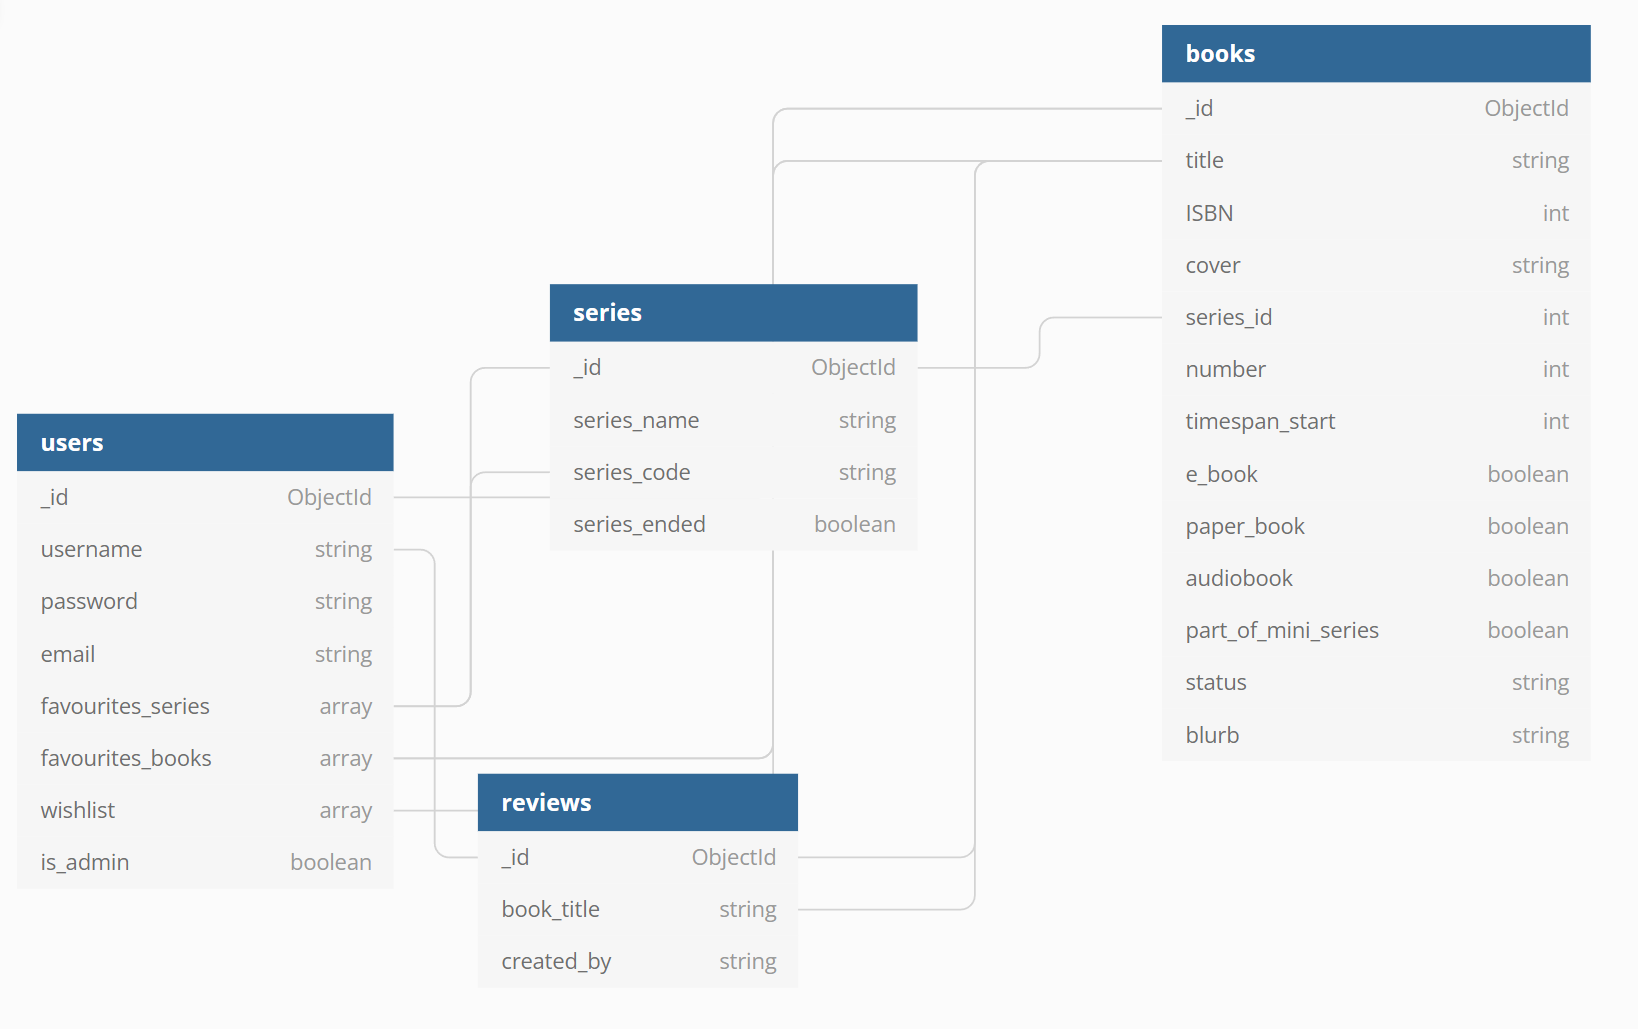
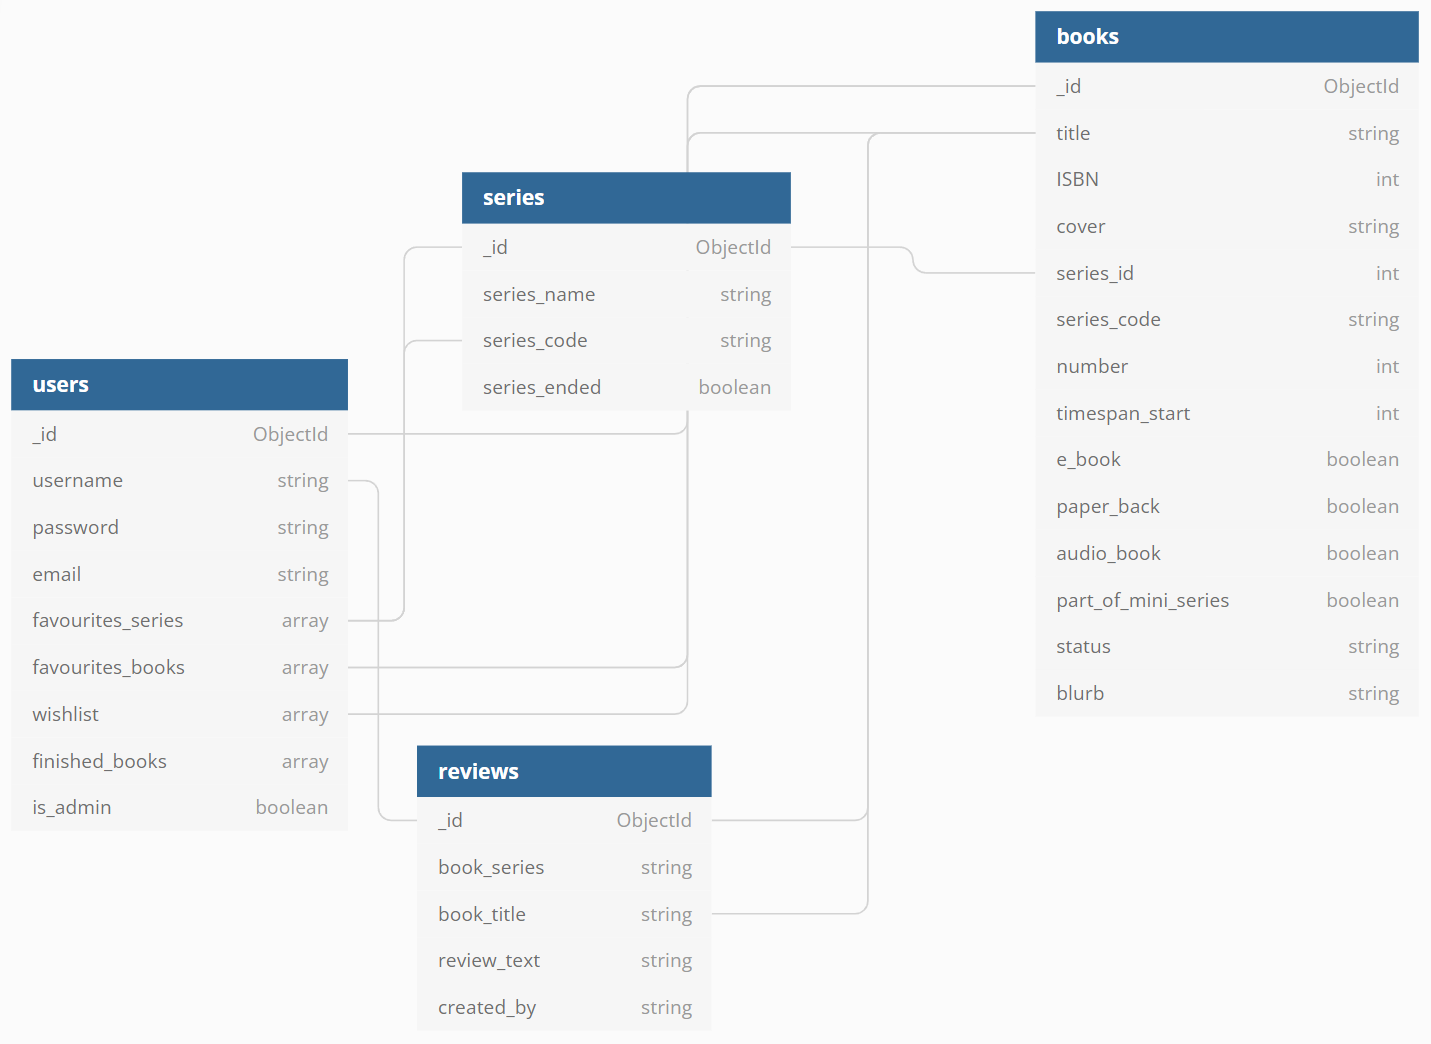
docs:  update the following sections: imagery, database schema, features and deployment

diff --git a/README.md b/README.md
@@ -78,7 +78,7 @@ All icons are from [Font Awesome](https://fontawesome.com). Please refer to the 
 
 #### **Imagery**
 
-All images were taken from [Unsplash](https://unsplash.com). Credit for the individual pictures is given below in the media section.
+All background images were taken from [Unsplash](https://unsplash.com). Credit for the individual pictures is given below in the media section. All book covers were obtained from [Memory Alpha](https://memory-alpha.fandom.com/wiki/Portal:Main). For information about the license, please refer to the media section. For sources for each book cover, please refer to the separate [SOURCES.md](SOURCES.md).
 
 ### **Wireframes**
 
@@ -94,7 +94,7 @@ All wireframes for this project can be found in the [wireframes sub-directory](h
 ![Database Schema](images/readme/db-scheme.png)
 The project uses 4 collections which are stored in MongoDB.
 
--   The **users** collection stores the username, password and email to enable the user to create an account with a profile page and - as a future feature - to be notified when new books are added to a series from his favourites list. Books that have been added to either the favourites list or the wish list, and series that have been added to the favourites list, and all reviews written by the user are also stored. Furthermore, information about whether a user is also an admin are stored.
+-   The **users** collection stores the username, password and email to enable the user to create an account with a profile page and - as a future feature - to be notified when new books are added to a series from his favourites list. Books that have been added to either the favourites list or the wish list and series that have been added to the favourites list, books that have been marked as finished and all reviews by the user are also stored. Furthermore, information about whether a user is also an admin are stored.
 
 -   The **series** collection stores the name and the code (e.g. 'DSC' for 'Discovery') for each series. It also stores information about whether the series has ended.
 
@@ -120,6 +120,7 @@ The available navigation menu items depend on whether a user is logged in and fo
 | Nav Link           | Not logged in | Logged in as user | Logged in as admin |
 | :----------------- | :------------ | :---------------- | :----------------- |
 | Logo(back to home) | &#9989;       | &#9989;           | &#9989;            |
+| All books          | &#9989;       | &#9989;           | &#9989;            |
 | Series             | &#9989;       | &#9989;           | &#9989;            |
 | Reviews            | &#9989;       | &#9989;           | &#9989;            |
 | Account            | &#9989;       | &#9989;           | &#9989;            |
@@ -140,8 +141,9 @@ The footer is located at the bottom of each page and includes links to reach the
 
 The welcome section consists of several short paragraphs informing the user about the site's aim, features and current status as a work in progress.
 
-#### **Series page features**
+#### **All books and Series page features**
 
+The All books page lists all Star Trek novels from the database sorted by title.
 The series page lists Star Trek novels sorted by series, e.g. "The Next Generation" or "Discovery". Currently, only a handful of books are included in the database, but the aim is to eventually list all books for all series. At the top of the page, a search bar is included where users can search both within book titles and blurbs. Results will be displayed beneath the search bar and can be cleared using the 'Reset' button.
 
 At the start of the section for each series, users can add the whole series to their favourites.
@@ -177,7 +179,7 @@ After logging out a confirmation flash gets displayed. The session status is cle
 
 #### **Contact page**
 
-The contact page features a contact form. The form uses form-validation and all input fields except the subject have to be filled out for the user to be able to submit the form. Users have the option to clear the form content. When the user submits the form a flash message informs the user about the successful submission and the form is cleared. Flask-Mail is used to inform the site owner about user messages including the message text and the user's email address.
+The contact page features a contact form. The form uses form validation and all input fields except the subject have to be filled out for the user to be able to submit the form. Users have the option to clear the form content. When the user submits the form a flash message informs the user about the successful submission and the form is cleared. Flask-Mail is used to inform the site owner about user messages including the message text and the user's email address.
 
 #### **404 page**
 
@@ -198,6 +200,10 @@ Flask-Talisman and Flask-SeaSurf are used to improve the application's security.
 ### **Features to be implemented**
 
 ---
+
+#### **Review-check by admin before publishing**
+
+Currently, all reviews are viewable on the site immediately after they have been added by users. To prevent spam or any form of unacceptable content, e.g. hate speech, in a future update reviews will be added to a separate collection for review before being added to the site by admin.
 
 #### **E-Mail notifications**
 
@@ -317,6 +323,20 @@ Please refer to the separate [TESTING.md](TESTING.md)
         - IP: `0.0.0.0`
         - PORT: `5000` (other ports may work as well)
         - SECRET_KEY: `<your secret key>`
+        - MONGO_URI
+            - Follow these steps to obtain your MONGO_URI:
+            - Log in to your MongoDB account
+            - Click on `Collections` and select the appropriate database
+            - Click on `Command Line Tools`
+            - Under the Heading 'Connect To Your Cluster' click on `Connect Instructions`
+            - In the newly opened modal, select `Connect your application`
+            - Select `Python` as the driver and your Python version
+            - Copy the connection string and follow the instructions to replace `<password>` with your MongoDB password and then replace `<myFirstDatabase>` with the name of your database.
+        - MONGO_DBNAME: `<your database name>`
+            - Please refer to the Database schema section for information on how to set up the database
+        - CLOUDINARY_CLOUD_NAME: after creating a free [Coudinary](https://cloudinary.com/) account to host the book covers downloaded from [Memory Alpha](https://memory-alpha.fandom.com/wiki/Portal:Main) either use the automatically assigned Cloudinary cloud name or change it in your account settings
+        - CLOUDINARY_API_KEY: you can generate and access your API key in the security settings
+        - CLOUDINARY_API_SECRET: you can generate and access your API secret in the security settings
     6. Push the **Procfile** to your Github repo.
     7. Back under the **Deploy** tab in Heroku enable **Automatic deploys**.
     8. Select the **main branch** and click on **Deploy branch**.
@@ -334,7 +354,7 @@ The colours for my colour palette were taken from [Steven Cote's](https://codepe
 
 ---
 
-Photos used as background for the all pages were obtained from [Unsplash](https://unsplash.com).
+Photos used as background for all pages were obtained from [Unsplash](https://unsplash.com).
 
 #### all pages except error pages
 
@@ -352,11 +372,11 @@ All book cover images were obtained from [Memory Alpha](https://memory-alpha.fan
 
 -   **License**
 
-    Fair Use - the material is copyrighted, but used here under [Fair Use](http://en.wikipedia.org/wiki/Fair_Use) guidelines.
+    Fair Use - the material is copyrighted but used here under [Fair Use](http://en.wikipedia.org/wiki/Fair_Use) guidelines.
 
 -   **Owner/Creator**
 
-    Pocket Books and its corporate heir, Gallery Books, which is a subsidiary of Simon & Schuster.
+    Pocket Books and its corporate heir, Gallery Books, a subsidiary of Simon & Schuster.
 
 -   **Source**
 
@@ -396,3 +416,4 @@ Many thanks to:
 -   The tutors from Code Institute for their guidance.
 -   Erik P. for his suggestions regarding the site's styling.
 -   The always helpful and supportive CI slack community.
+-   My boss, who once again allowed me to leave work early quite often to work on my project instead.
